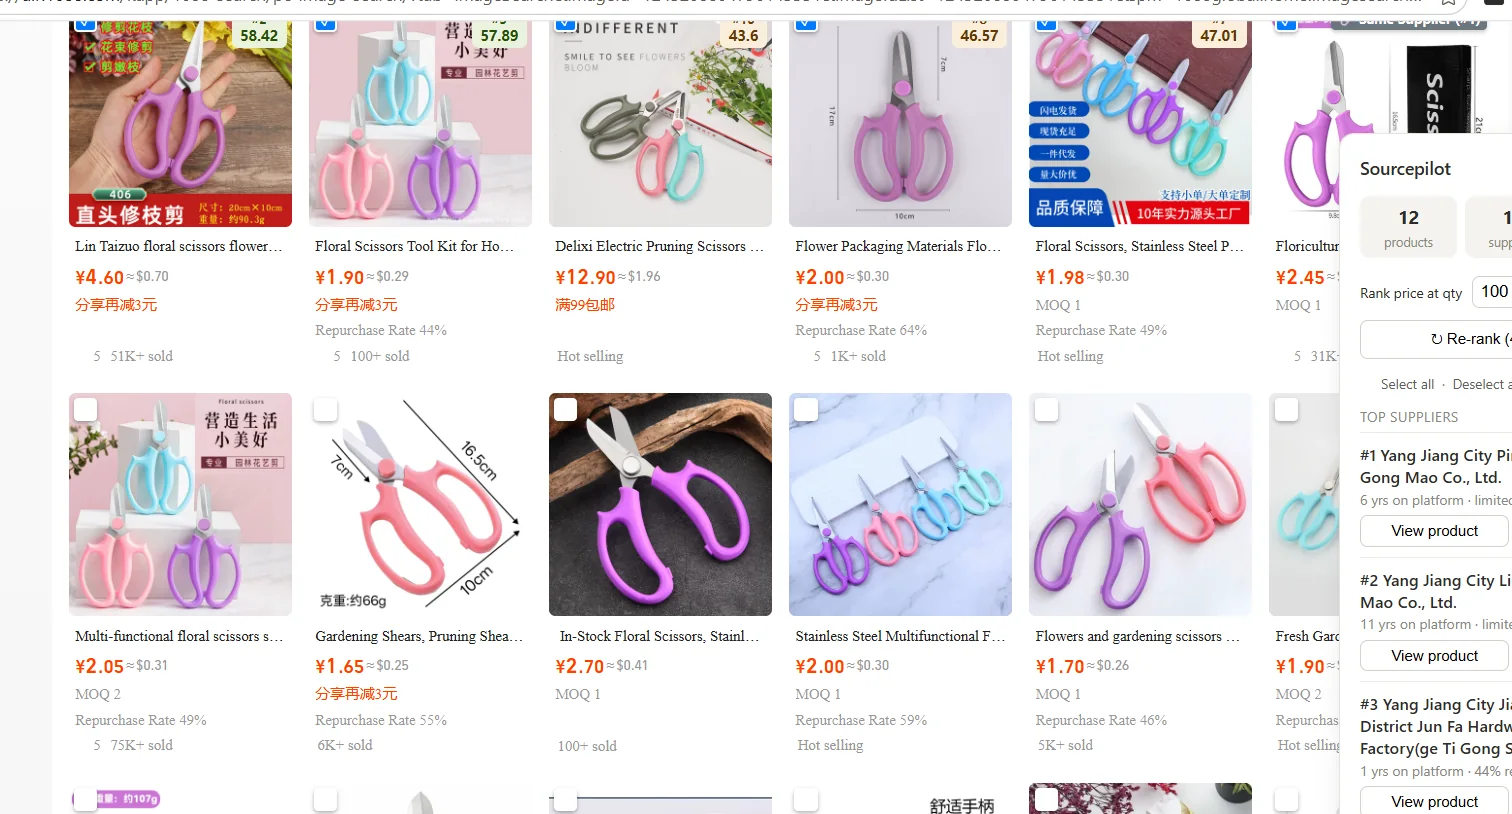
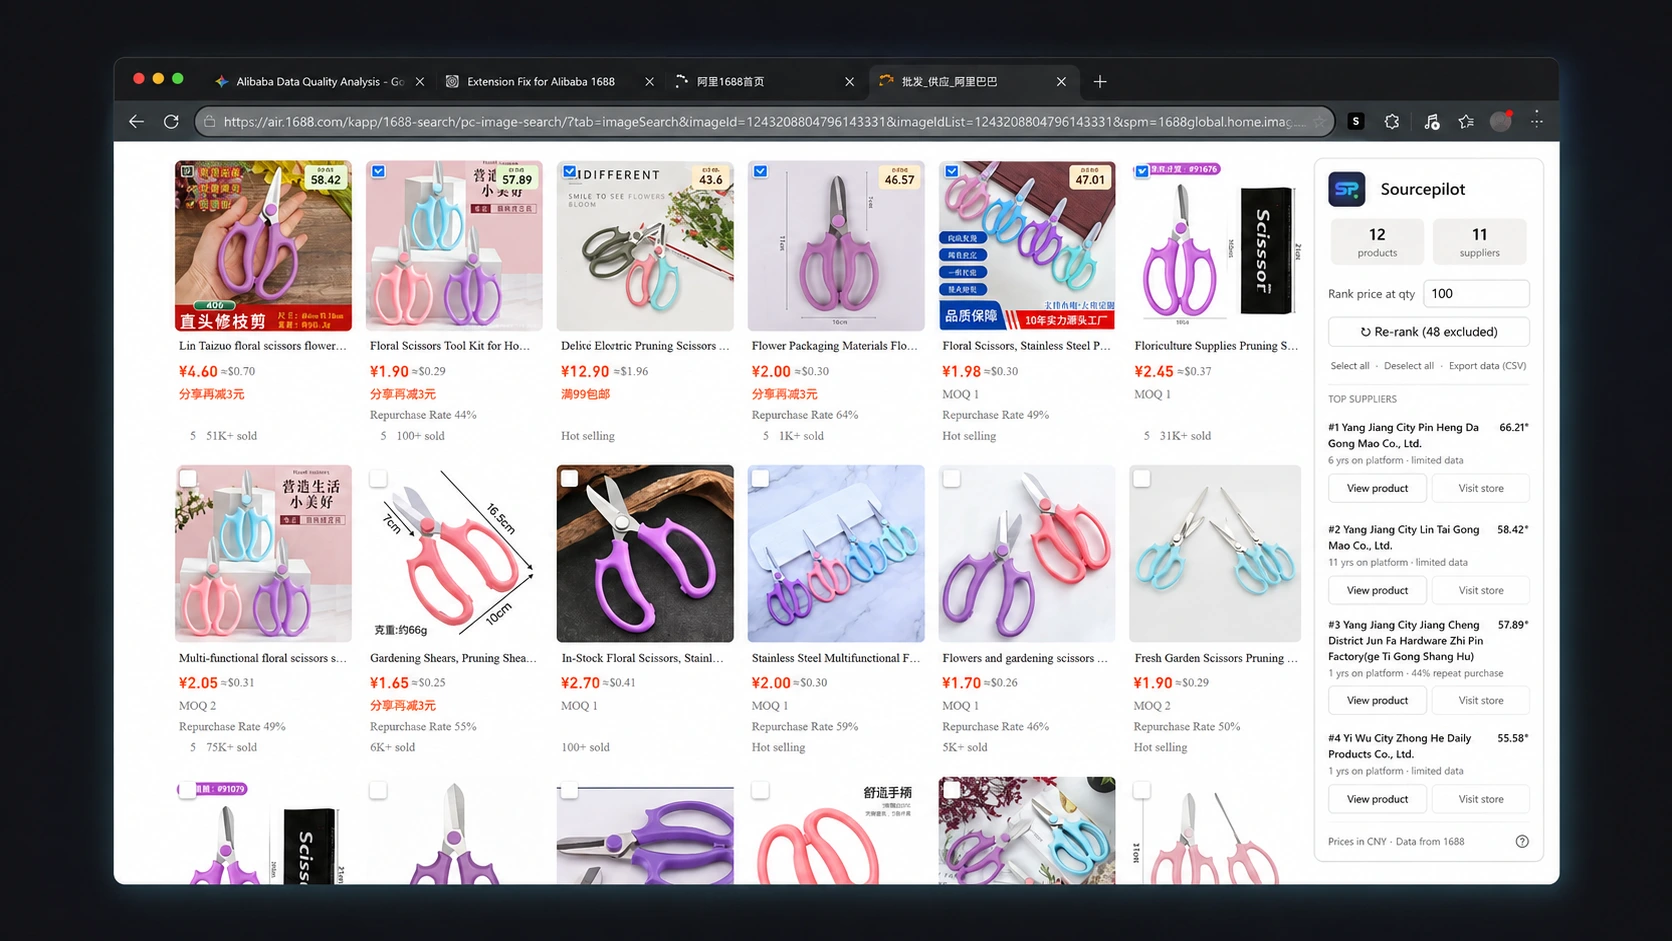
Add files via upload

diff --git a/styles.css b/styles.css
@@ -131,6 +131,7 @@ p { color: var(--muted); }
 .hero-points li::before { content: "✓"; margin-right: 7px; color: #4ade80; font-weight: 900; }
 .hero-card { position: relative; }
 .hero-card::before { content: ""; position: absolute; inset: -16px; border-radius: 32px; background: linear-gradient(135deg, rgba(59,130,246,.32), rgba(139,92,246,.05)); filter: blur(28px); opacity: .65; }
+.hero-showcase-image { display: block; width: 100%; height: auto; border: 1px solid rgba(148,163,184,.2); border-radius: 24px; box-shadow: var(--shadow); background: #07101d; }
 .browser-frame { position: relative; overflow: hidden; border: 1px solid rgba(148,163,184,.2); border-radius: 24px; background: #0b1322; box-shadow: var(--shadow); }
 .browser-top { height: 42px; display: flex; align-items: center; gap: 7px; padding: 0 14px; border-bottom: 1px solid var(--border); background: #0b1423; }
 .browser-dot { width: 9px; height: 9px; border-radius: 50%; background: #334155; }
@@ -139,9 +140,9 @@ p { color: var(--muted); }
   display: block;
   width: 100%;
   height: auto;
-  max-height: 560px;
+  max-height: none;
   object-fit: contain;
-  object-position: top center;
+  object-position: center;
   background: #fff;
 }
 .floating-stat { position: absolute; right: -18px; bottom: 26px; z-index: 4; padding: 13px 15px; border: 1px solid rgba(34,197,94,.25); border-radius: 15px; background: rgba(6,11,20,.92); box-shadow: 0 16px 40px rgba(0,0,0,.38); }
@@ -160,8 +161,8 @@ p { color: var(--muted); }
 .demo-tab.active { color: #fff; border-color: rgba(96,165,250,.25); background: rgba(37,99,235,.13); }
 .demo-panel { display: none; }
 .demo-panel.active { display: block; }
-.demo-media { position: relative; overflow: hidden; border-bottom: 1px solid var(--border); background: #fff; }
-.demo-media img { display: block; width: 100%; height: auto; object-fit: initial; }
+.demo-media { position: relative; display: flex; align-items: center; justify-content: center; overflow: hidden; border-bottom: 1px solid var(--border); background: #050a12; }
+.demo-media img { display: block; width: 100%; max-width: 100%; height: auto; max-height: none; aspect-ratio: auto; object-fit: contain; object-position: center; }
 .demo-expand { position: absolute; right: 16px; bottom: 16px; z-index: 2; padding: 9px 12px; border: 1px solid rgba(255,255,255,.24); border-radius: 10px; color: #fff; background: rgba(6,11,20,.86); backdrop-filter: blur(10px); font-size: .76rem; font-weight: 800; box-shadow: 0 10px 30px rgba(0,0,0,.28); }
 .demo-expand:hover { background: #111c31; }
 .demo-summary { display: grid; grid-template-columns: minmax(0, .9fr) minmax(0, 1.1fr); gap: 48px; align-items: start; padding: 34px 40px 38px; }
@@ -299,5 +300,5 @@ details p { padding: 0 22px 22px; margin-bottom: 0; }
   .nav-actions .button-primary { display: none; }
   .trust-grid, .footer-grid { grid-template-columns: 1fr; }
   .footer-brand, .footer-grid .footer-col:last-child { grid-column: auto; }
-  .browser-frame img { aspect-ratio: 1.2/1; }
+  .browser-frame img { aspect-ratio: auto; }
 }

diff --git a/index.html b/index.html
@@ -70,12 +70,8 @@
           </ul>
         </div>
 
-        <div class="hero-card" aria-label="Sourcepilot running on 1688">
-          <div class="browser-frame">
-            <div class="browser-top"><span class="browser-dot"></span><span class="browser-dot"></span><span class="browser-dot"></span><span class="browser-address"></span></div>
-            <img src="demo-1688.webp" width="1512" height="814" alt="Sourcepilot supplier ranking panel displayed over a 1688 product search page">
-          </div>
-          <div class="floating-stat"><strong>Live supplier ranking</strong><span>Scores, confidence and product links</span></div>
+        <div class="hero-card" aria-label="Sourcepilot supplier ranking overview">
+          <img class="hero-showcase-image" src="hero-sourcepilot.webp" width="1672" height="941" alt="Sourcepilot supplier ranking shown in a polished browser mockup">
         </div>
       </div>
     </section>
@@ -106,7 +102,7 @@
 
           <div class="demo-panel active" role="tabpanel" data-demo-panel="ranking">
             <div class="demo-media">
-              <img src="demo-1688.webp" width="1512" height="814" alt="1688 search results with Sourcepilot ranking sidebar">
+              <img src="demo-1688.webp" width="1672" height="941" alt="1688 search results with Sourcepilot ranking sidebar">
               <a class="demo-expand" href="demo-1688.webp" target="_blank" rel="noopener">Open full-size image ↗</a>
             </div>
             <div class="demo-summary">
@@ -121,7 +117,7 @@
 
           <div class="demo-panel" role="tabpanel" data-demo-panel="alibaba">
             <div class="demo-media">
-              <img src="demo-alibaba.webp" width="1682" height="809" alt="Alibaba product page showing seller rating, reorder rate, business type and pricing tiers">
+              <img src="demo-alibaba.webp" width="1672" height="941" alt="Alibaba product page showing seller rating, reorder rate, business type and pricing tiers">
               <a class="demo-expand" href="demo-alibaba.webp" target="_blank" rel="noopener">Open full-size image ↗</a>
             </div>
             <div class="demo-summary">
@@ -136,7 +132,7 @@
 
           <div class="demo-panel" role="tabpanel" data-demo-panel="csv">
             <div class="demo-media">
-              <img src="demo-csv.webp" width="1682" height="655" alt="Sourcepilot supplier comparison exported to a spreadsheet">
+              <img src="demo-csv.webp" width="1672" height="941" alt="Sourcepilot supplier comparison exported to a spreadsheet">
               <a class="demo-expand" href="demo-csv.webp" target="_blank" rel="noopener">Open full-size image ↗</a>
             </div>
             <div class="demo-summary">
